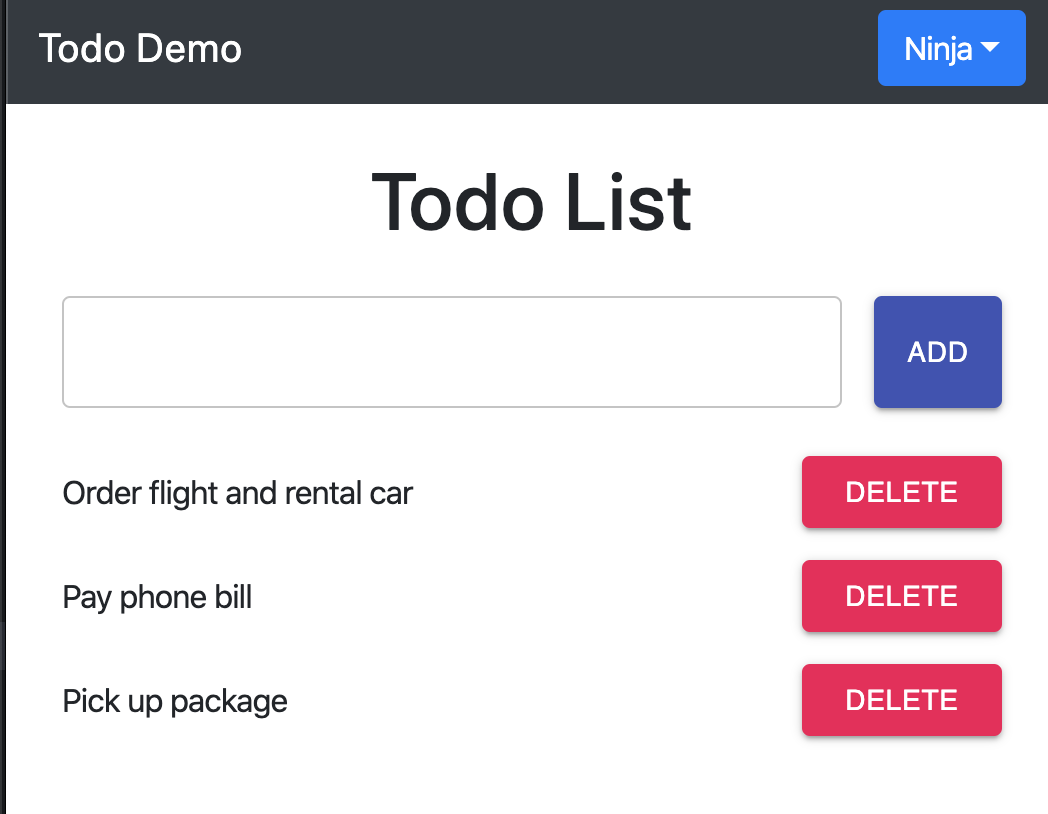
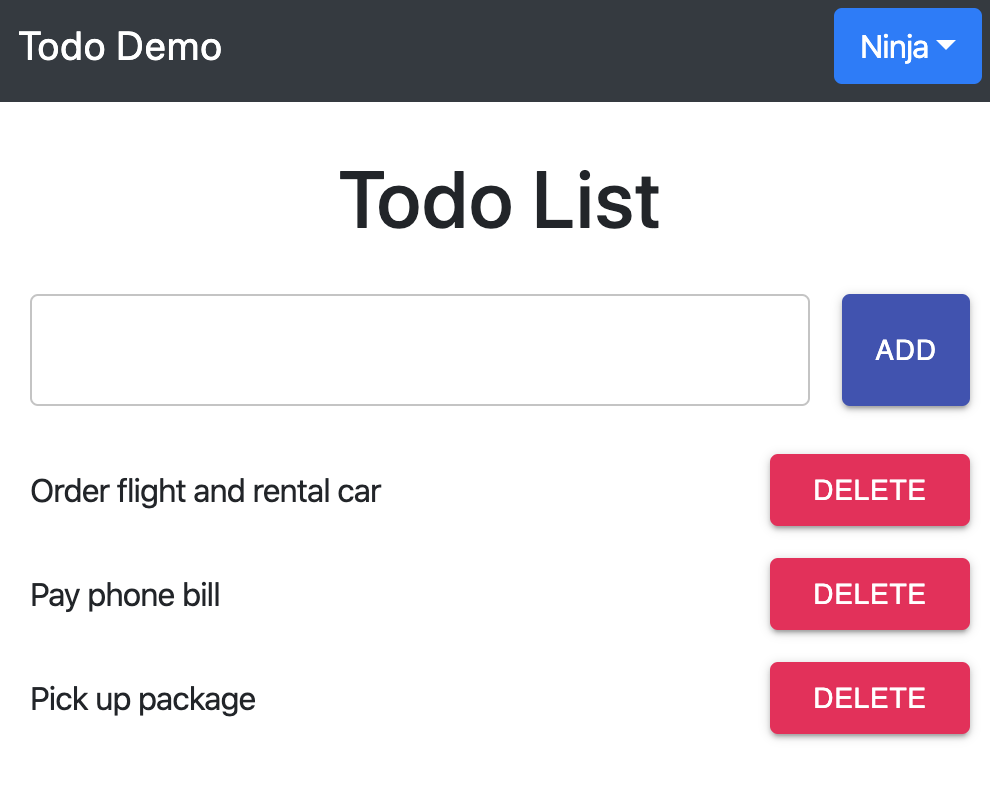
Changed images to be without black line, also decreased app-screen by 30% on both width and height

diff --git a/src/App.js b/src/App.js
@@ -1,6 +1,6 @@
 import React from "react";
-import { AuthProvider } from '@reshuffle/react-auth';
-import Layout from './components/Layout';
+import { AuthProvider } from "@reshuffle/react-auth";
+import Layout from "./components/Layout";
 
 const App = () => {
   return (

diff --git a/README.md b/README.md
@@ -5,5 +5,5 @@ This app have a friendly user experience with instant visual updates that connec
 Build with React and Reshuffle platform.
 
 <p>
-  <img src="./app-screen.png" width="80%" height="80%">
+  <img src="./app-screen.png" width="50%" height="50%">
 </p>
